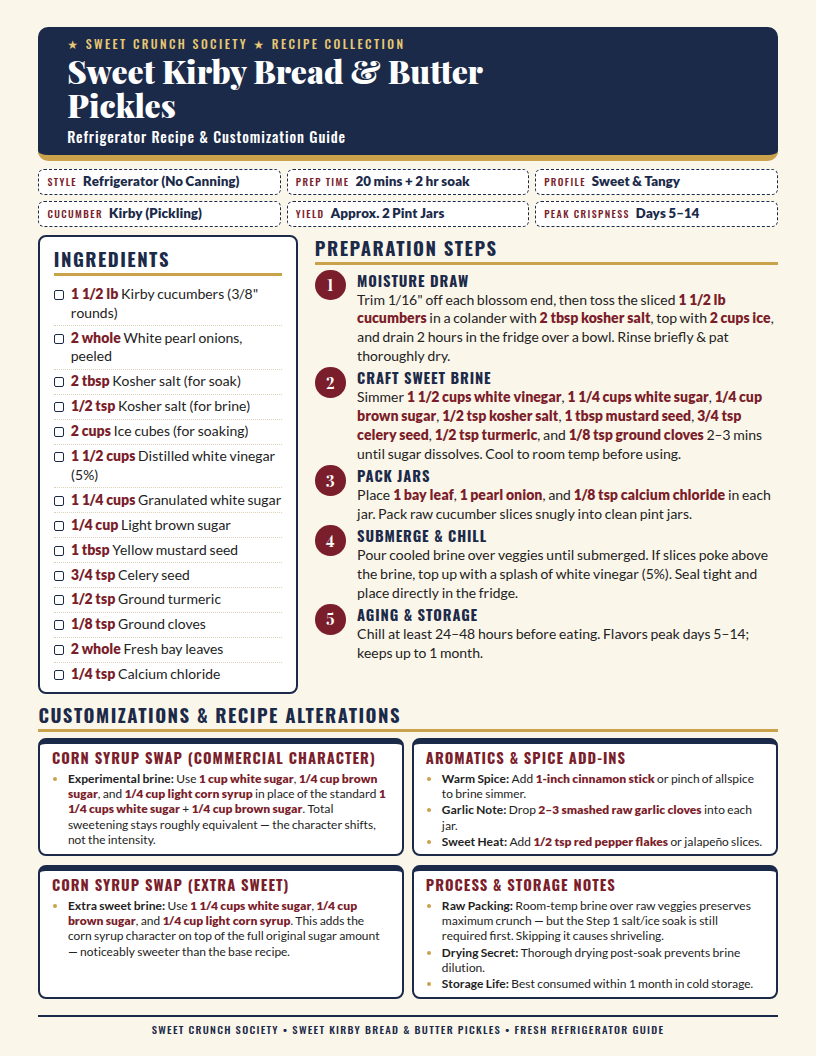
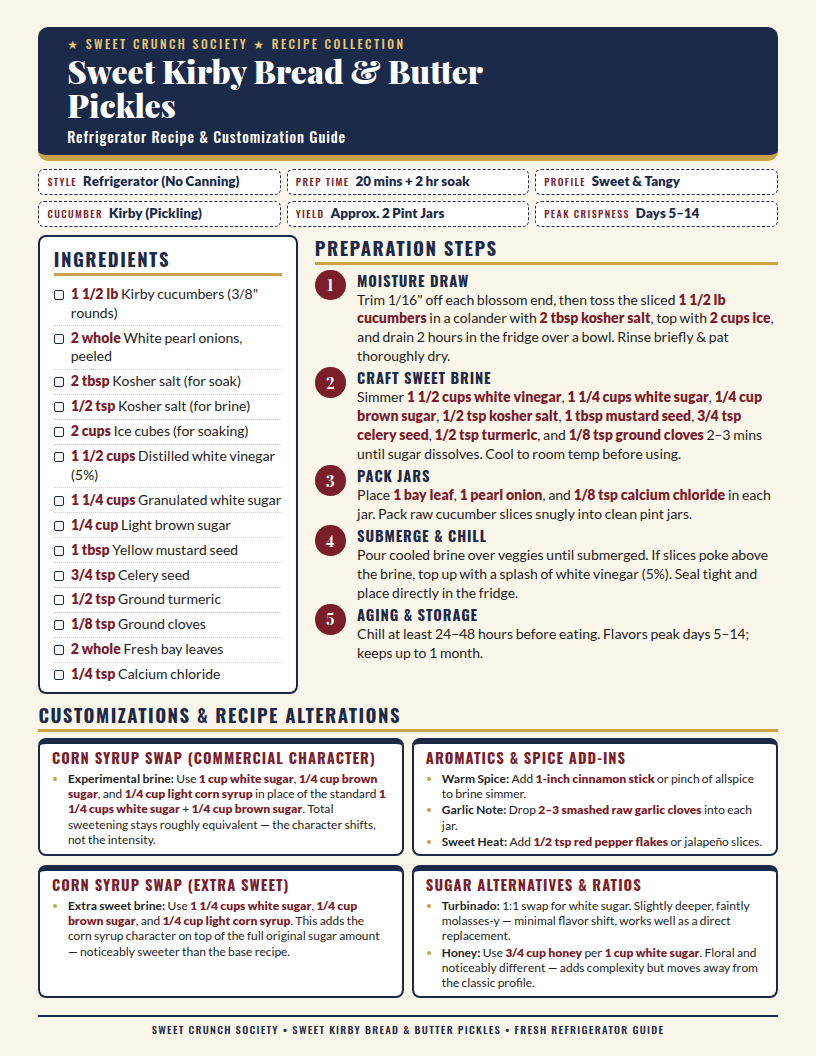
feat: replace Process & Storage Notes with Sugar Alternatives card
Covers turbinado (1:1) and honey (¾ cup per 1 cup) as the two
recommended white sugar alternatives, with brief flavor notes for each.

Changed region(s): [[0.5208, 0.8125, 0.9191, 0.9375]]

diff --git a/index.html b/index.html
@@ -195,11 +195,10 @@
           </ul>
         </div>
         <div class="card">
-          <h3>Process &amp; Storage Notes</h3>
+          <h3>Sugar Alternatives &amp; Ratios</h3>
           <ul>
-            <li><b>Raw Packing:</b> Room-temp brine over raw veggies preserves maximum crunch — but the Step 1 salt/ice soak is still required first. Skipping it causes shriveling.</li>
-            <li><b>Drying Secret:</b> Thorough drying post-soak prevents brine dilution.</li>
-            <li><b>Storage Life:</b> Best consumed within 1 month in cold storage.</li>
+            <li><b>Turbinado:</b> 1:1 swap for white sugar. Slightly deeper, faintly molasses-y — minimal flavor shift, works well as a direct replacement.</li>
+            <li><b>Honey:</b> Use <strong>3/4 cup honey</strong> per <strong>1 cup white sugar</strong>. Floral and noticeably different — adds complexity but moves away from the classic profile.</li>
           </ul>
         </div>
       </div>
